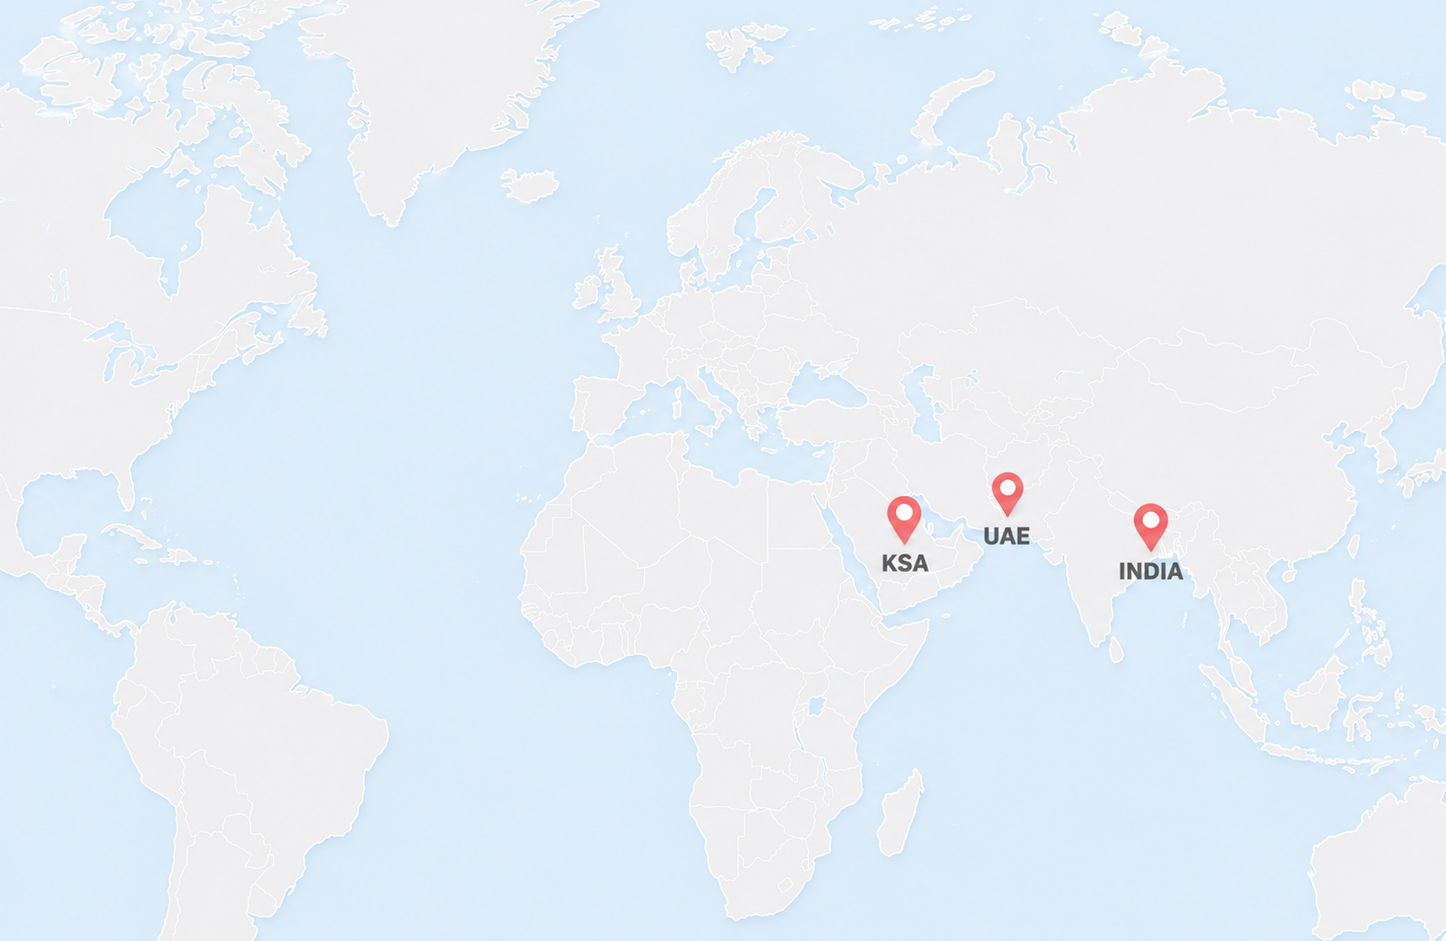
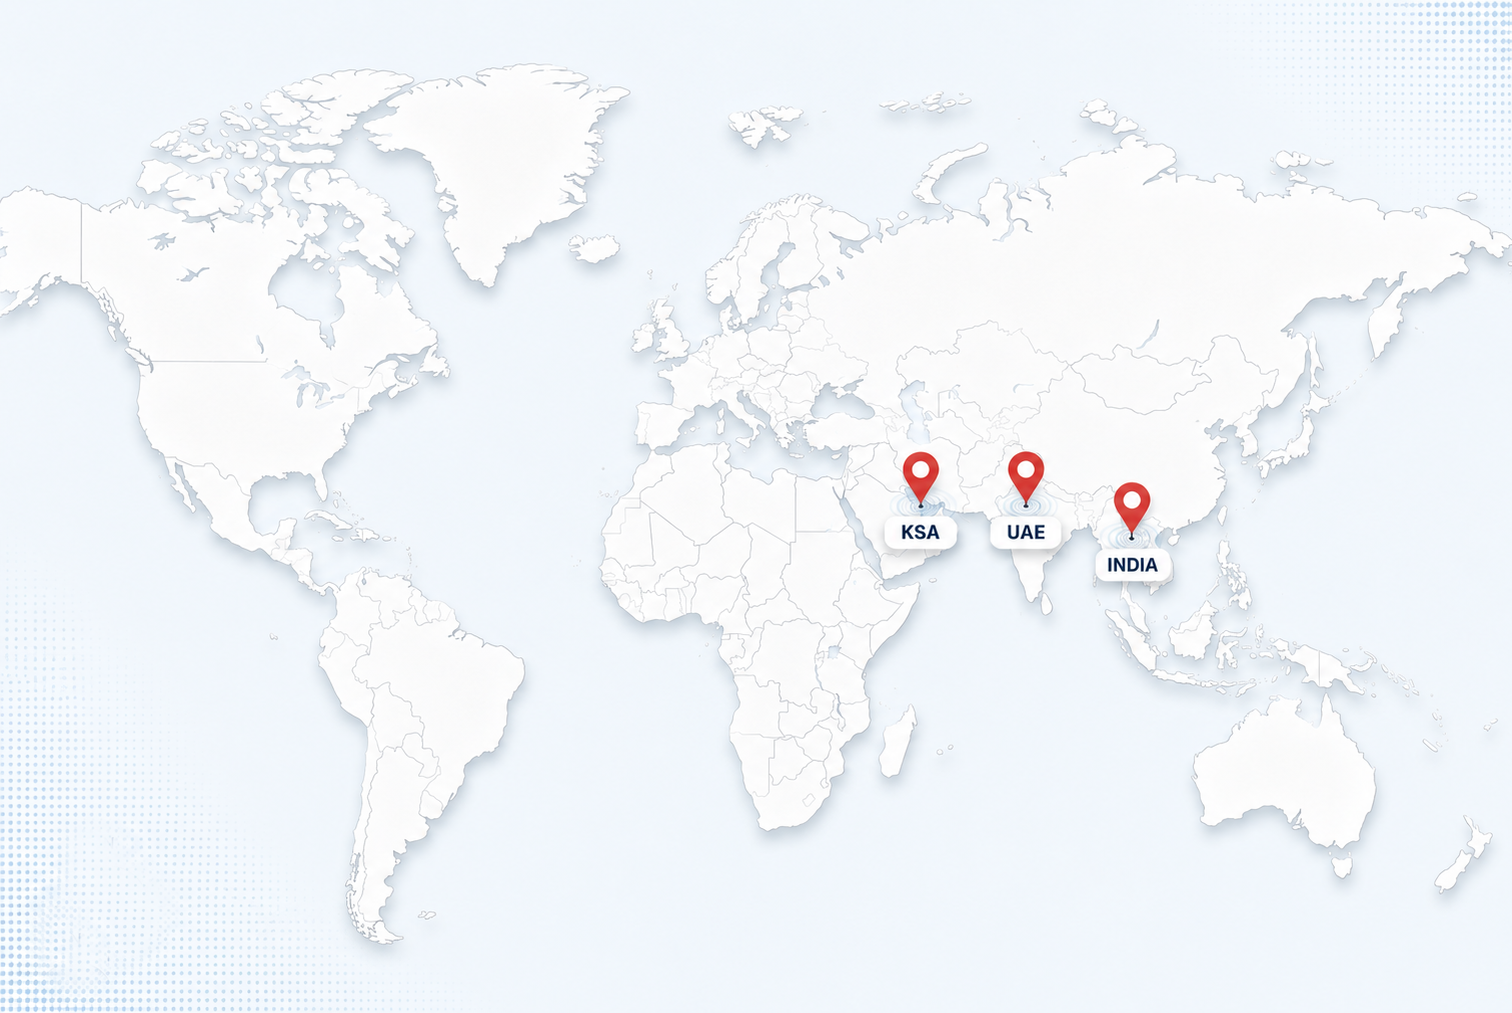
updated

diff --git a/assets/css/main.css b/assets/css/main.css
@@ -7438,7 +7438,7 @@ input.main-search-input::placeholder {
     width: 100%;
     height: 100%;
     object-fit: cover;
-    opacity: 0.80; /* visibility */
+    opacity: 0.60; /* visibility */
     z-index: 1;
 }
 
@@ -7462,35 +7462,6 @@ input.main-search-input::placeholder {
     border-radius: 20px;
     overflow: hidden;
 }
-
-
-/* ---------Contact page --------*/
-
-.map-box {
-    height: 100%;
-}
-
-.map-box iframe {
-    width: 100%;
-    height: 620px;
-    border: 0;
-    border-radius: 20px;
-}
-
-@media (max-width: 991px) {
-    .contact-form-items {
-        padding: 25px;
-    }
-
-    .map-box {
-        margin-top: 30px;
-    }
-
-    .map-box iframe {
-        height: 350px;
-    }
-}
-
 
 
 /* ---------Heder hamburger--------*/
@@ -7529,6 +7500,33 @@ input.main-search-input::placeholder {
 }
 
 
+/* ---------Contact page --------*/
+
+.map-box {
+    height: 100%;
+}
+
+.map-box iframe {
+    width: 100%;
+    height: 620px;
+    border: 0;
+    border-radius: 20px;
+}
+
+@media (max-width: 991px) {
+    .contact-form-items {
+        padding: 25px;
+    }
+
+    .map-box {
+        margin-top: 30px;
+    }
+
+    .map-box iframe {
+        height: 350px;
+    }
+}
+
 
 .contact-info-section{
     background:#f7f9fc;
@@ -7540,8 +7538,6 @@ input.main-search-input::placeholder {
     margin:15px auto 40px;
     color:#666;
 }
-
-
 
 .contact-card{
 
@@ -7559,15 +7555,11 @@ input.main-search-input::placeholder {
     border:1px solid transparent;
 }
 
-
-
 .contact-card:hover{
 
     transform:translateY(-8px);
     border-color:var(--theme);
 }
-
-
 
 .contact-icon{
 
@@ -7583,8 +7575,6 @@ input.main-search-input::placeholder {
     justify-content:center;
 }
 
-
-
 .contact-icon img{
 
     width:35px;
@@ -7592,16 +7582,12 @@ input.main-search-input::placeholder {
 
 }
 
-
-
 .contact-content h3{
 
     font-size:22px;
     margin-bottom:8px;
 
 }
-
-
 
 .contact-content p{
 